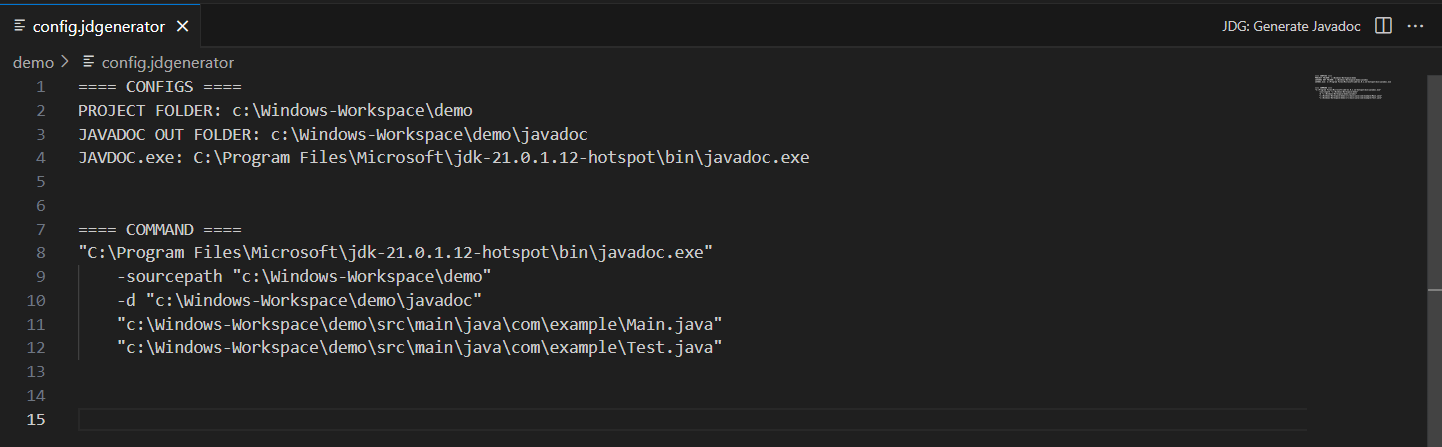
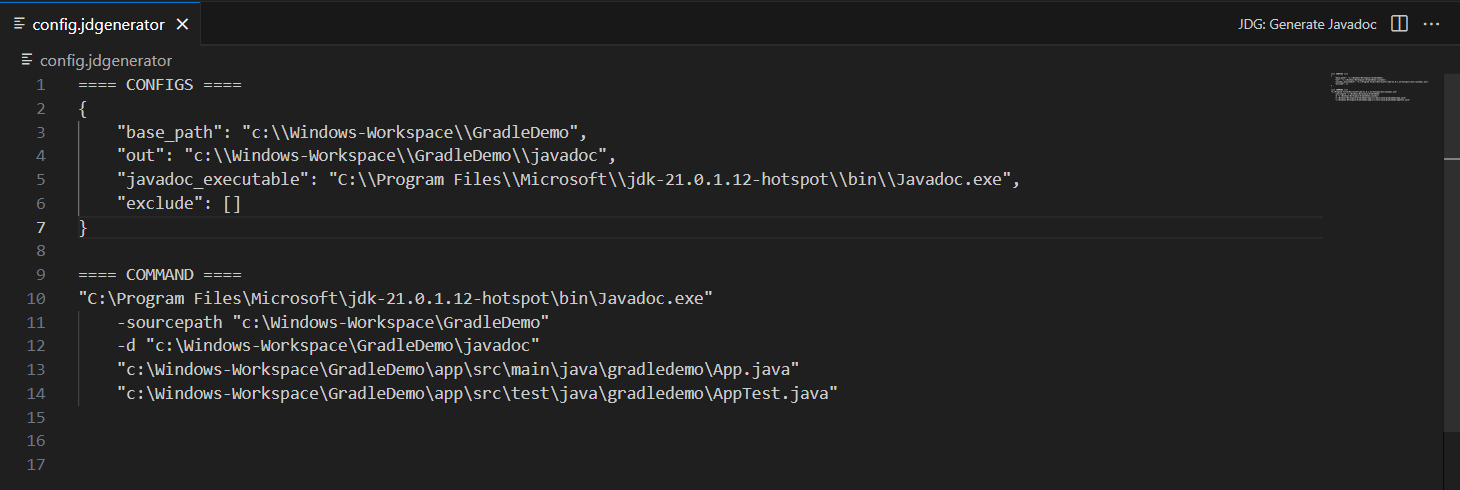
#28 Readme update

diff --git a/README.md b/README.md
@@ -9,9 +9,15 @@ You will first need a JDG Config file. You can get one by clicking on your proje
 
 <img src="./images/InitalizeConfig.png" alt="InitalizeConfig" style="width:200px;"/>
 
-Adjust the config file until a valid command is generated with no errors. Once a valid javadoc command is created, click the button in the top right corner labled "JDG: Generate Javadoc". 
+Adjust the config file until a valid command is generated with no errors. 
 
 <img src="./images/RunGenerator.png" alt="InitalizeConfig" style="width:900px;"/>
+
+You can exclude folders in the specified base_path by adding to the exclude array. This array matches strings directly, using the string prototype's includes() method.
+
+<img src="./images/ExcludeFolders.png" alt="InitalizeConfig" style="width:900px;"/>
+
+Once a valid javadoc command is created, click the button in the top right corner labled "JDG: Generate Javadoc". 
 
 Once the Javadoc generation is complete, you should see the output appended to the config file. 
 
